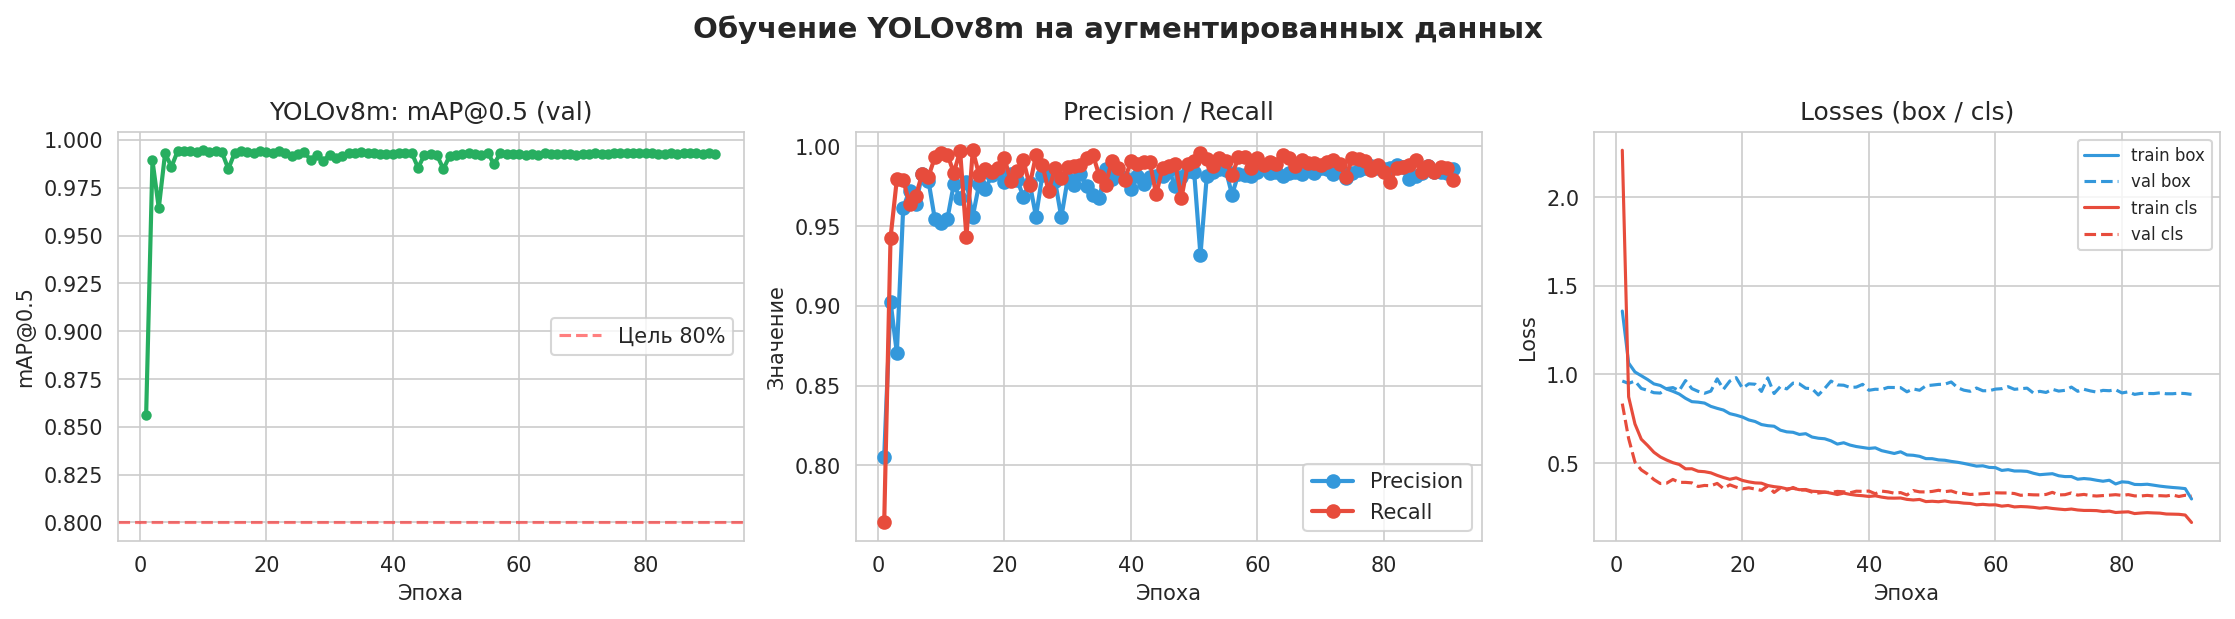
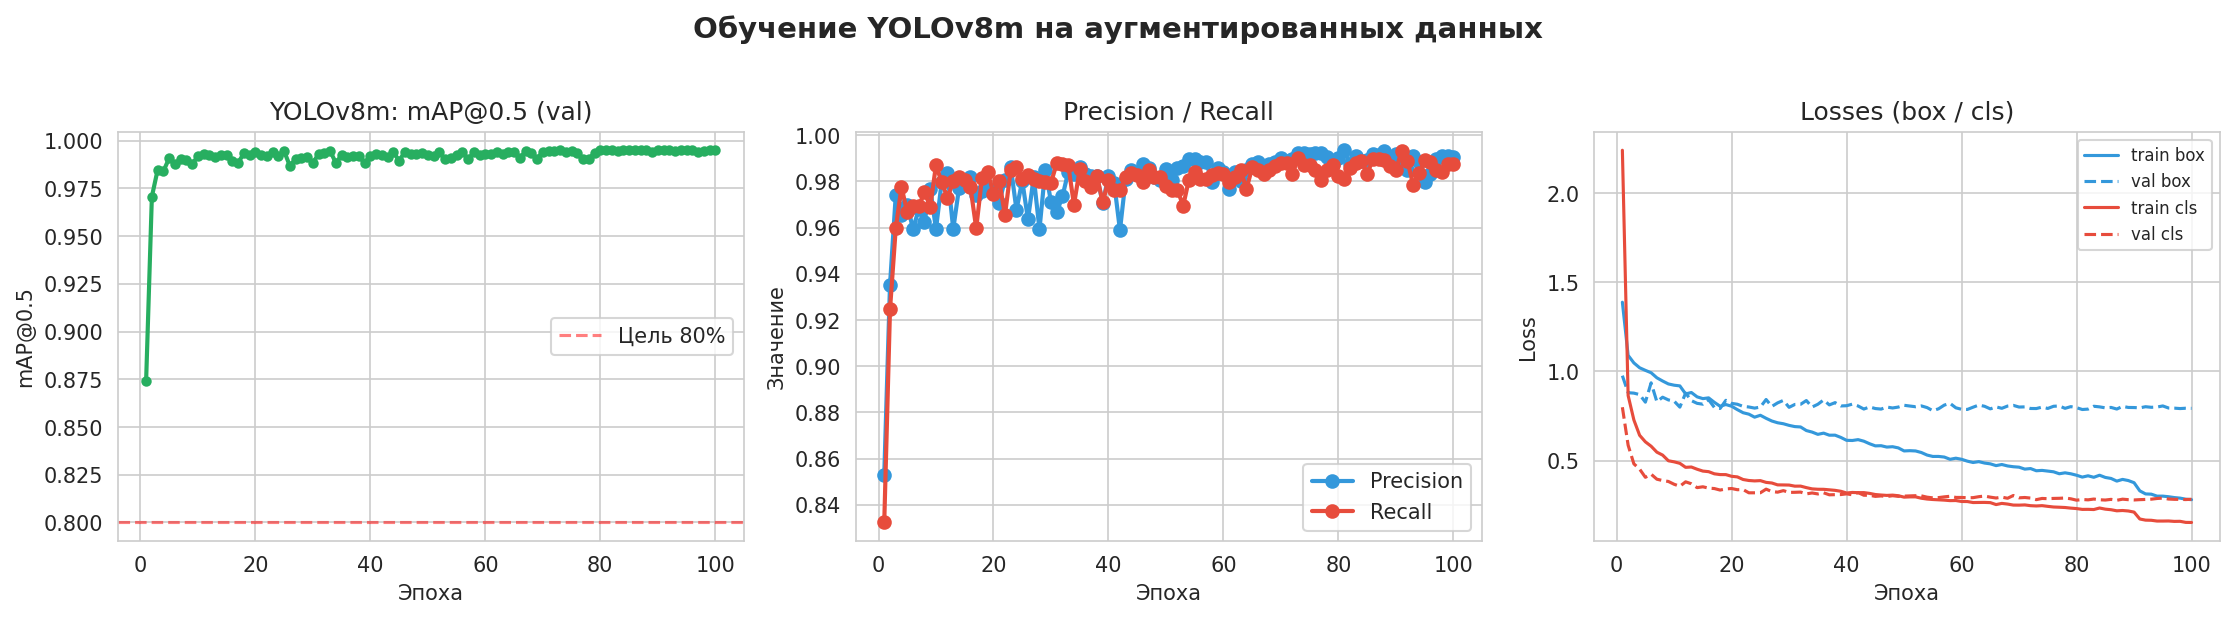
Retrain both models on the new split, update results and describe environment and scope

diff --git a/generate_report.py b/generate_report.py
@@ -173,21 +173,20 @@ for row in rows:
     else:
         fail_examples.append(entry)
 
-# Рисуем 3 успеха и 3 ошибки
+# Рисуем до 3 ошибок, остальные ячейки - успехи
+fails = [(ex, "Ошибка") for ex in fail_examples[:3]]
+examples = [(ex, "Успех") for ex in success_examples[: 6 - len(fails)]] + fails
 fig, axes = plt.subplots(2, 3, figsize=(18, 10))
-# Ошибок может быть меньше трёх - пустые ячейки не рисуем
+# Изображений может быть меньше шести - пустые ячейки не рисуем
 for ax in axes.flat:
     ax.axis('off')
 
-for row, examples, title_prefix in [(0, success_examples[:3], "Успех"), (1, fail_examples[:3], "Ошибка")]:
-    for col, ex in enumerate(examples):
-        import matplotlib.image as mpimg
+for ax, (ex, title_prefix) in zip(axes.flat, examples, strict=False):
+    import matplotlib.image as mpimg
 
-        img = mpimg.imread(ex['path'])
-        axes[row, col].imshow(img)
-        axes[row, col].set_title(
-            f"{title_prefix}\nGT: {ex['gt']}  |  Pred: {ex['pred']}", fontsize=11, fontweight='bold'
-        )
+    img = mpimg.imread(ex['path'])
+    ax.imshow(img)
+    ax.set_title(f"{title_prefix}\nGT: {ex['gt']}  |  Pred: {ex['pred']}", fontsize=11, fontweight='bold')
 
 plt.suptitle('Примеры предсказаний YOLOv8m на тестовой выборке', fontsize=16, fontweight='bold', y=0.98)
 plt.tight_layout(rect=[0, 0, 1, 0.96])

diff --git a/README.md b/README.md
@@ -8,13 +8,13 @@
 
 | Выборка | Изображений | YOLOv8m | FCOS |
 |---|---|---|---|
-| val (номеров нет в train) | 94 | 91.5% [84.1%; 95.6%] | 90.4% [82.8%; 94.9%] |
-| test, все | 26 | 96.2% (25/26) [81.1%; 99.3%] | 88.5% (23/26) [71.0%; 96.0%] |
-| test, номер есть в train | 20 | 95.0% (19/20) | 90.0% (18/20) |
-| test, новый номер | 6 | 100% (6/6) | 83.3% (5/6) |
-| CER на test | | 0.5% | 1.6% |
+| val (номеров нет в train) | 92 | 96.7% [90.8%; 98.9%] | 91.3% [83.8%; 95.5%] |
+| test, все | 26 | 100% (26/26) [87.1%; 100%] | 88.5% (23/26) [71.0%; 96.0%] |
+| test, номер есть в train | 20 | 100% (20/20) | 100% (20/20) |
+| test, новый номер | 6 | 100% (6/6) | 50.0% (3/6) |
+| CER на test | | 0.0% | 2.2% |
 
-Цель 80% Exact Match достигнута обеими моделями; основная модель - YOLOv8m. На val модели почти равны, но у FCOS по Exact Match на val выбирались и чекпоинт, и порог, поэтому её цифра на val немного завышена. Разбор ошибок - в [REPORT.md](REPORT.md).
+Цель 80% Exact Match достигнута обеими моделями; основная модель - YOLOv8m, она точнее и на val, и на test. У FCOS чекпоинт выбирался по Exact Match на val, поэтому её цифра на val немного завышена; на 6 новых номерах test интервал слишком широкий, чтобы сравнивать модели. Разбор ошибок - в [REPORT.md](REPORT.md).
 
 Прежние результаты (85% Exact Match у YOLOv8m, ~20% и 65% у FCOS) получены по старому протоколу и недействительны: test был урезан до 20 изображений (PNG не учитывались), в нём были изображения с неполной разметкой, номера test встречаются в train, а порог уверенности подбирался на тесте. Подробности - в [REPORT.md](REPORT.md).
 
@@ -74,7 +74,7 @@ avto_num/
 # Не хранятся в git:
 ├── number_plates/            # Исходные данные: train/ и test/
 ├── yolo_dataset/             # Датасет в формате YOLO (make prepare)
-├── yolo_dataset_augmented/   # Аугментированный датасет, 1420 изображений train (make augment)
+├── yolo_dataset_augmented/   # Аугментированный датасет, 1428 изображений train (make augment)
 ├── runs/                     # Логи и веса YOLO
 └── weights/                  # Веса и история обучения FCOS
 ```
@@ -147,6 +147,10 @@ CI (GitHub Actions) запускает линтеры и тесты на Python 
 4. Постобработка: NMS без учёта класса (две гипотезы одного символа не попадают в строку), геометрический фильтр, отбрасывающий детекции с выбросами по высоте и по линии символов (прямая через центры - номер часто наклонён), и ограничение длины номера (до 7 самых уверенных символов). Общий для YOLO и FCOS; сравнение без фильтра - `evaluate.py --no-filter`.
 5. Оценка: Exact Match с 95% доверительным интервалом Уилсона, CER и Exact Match по номерам (каждый номер с одинаковым весом); порог уверенности подбирается на val, test запускается один раз. Результат выводится отдельно для номеров, которые есть в train, и для новых номеров.
 
+## Границы применимости
+
+На вход - уже вырезанный кроп одного саудовского номера: распознаются 27 латинских символов нижней строки, номер однострочный, до 7 символов. Для фото автомобиля целиком нужен первый этап - детекция номерного знака, его в проекте нет. Подробнее - [REPORT.md](REPORT.md#7-границы-применимости).
+
 ## Классы (27 символов)
 
 Цифры: 0-9
@@ -158,7 +162,7 @@ CI (GitHub Actions) запускает линтеры и тесты на Python 
 - Deep Learning: PyTorch 2.5 (CUDA 12.4), Ultralytics YOLOv8
 - Data Processing: Albumentations, OpenCV, Pandas
 - Visualization: Matplotlib, Seaborn
-- Environment: Python 3.10, Ubuntu 24.04, NVIDIA RTX 4060 Laptop (8GB VRAM)
+- Environment: Ubuntu 24.04; CI - Python 3.10, обучение - Python 3.12 на NVIDIA GTX 1660 Ti (6 GB)
 
 ## Дальнейшее развитие
 
